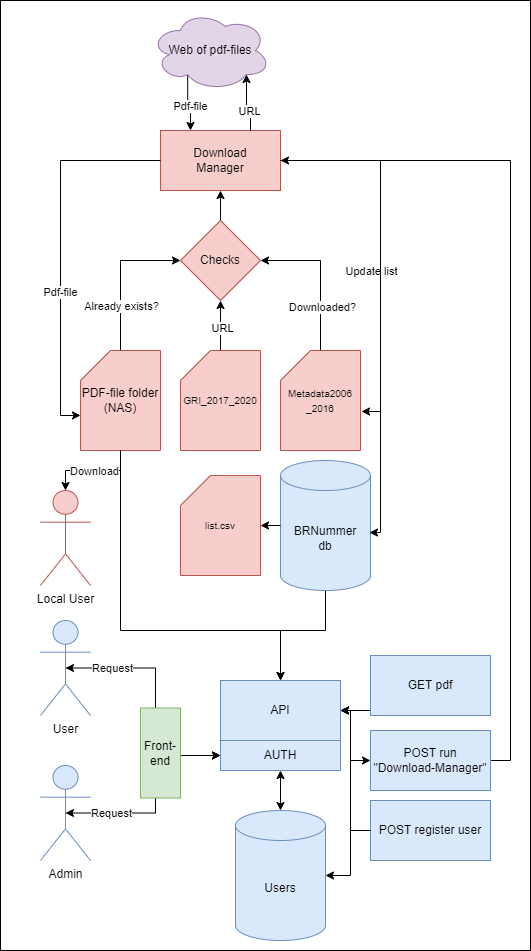
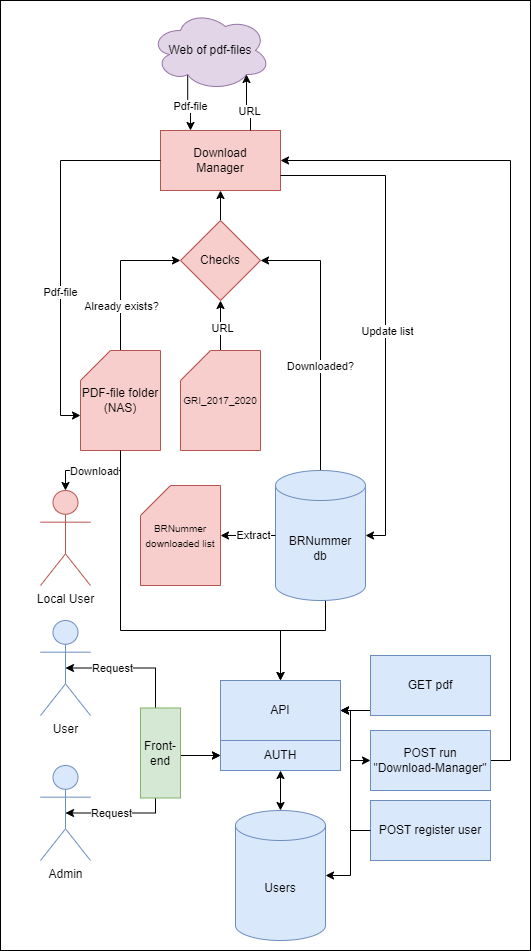
update specifications

diff --git a/README.md b/README.md
@@ -3,7 +3,8 @@
 ## Specificaftions
 This project will download specified PDF files from `GRI_2017_2020.xlsx` with URL from column AL: `Pdf_URL` or column AM: `Report Html Address`.
 Gives a list of the downloaded pdf files with naming of the column A: `BRNummer` and whether the file has been downloaded.
-Also `Metadata2006-2016.xlsx` at column AT: `pdf_downloaded` needs to update wether or not the file has been downloaded.
+Also we need a `downloaded list` with a column of download status: `pdf_downloaded` needs to update wether or not the file has been downloaded.
+This list will initially be updated in a database, and the list can later be extracted to a file if required.
 The program needs to handle future pdf downloading of new updated URL lists.
 The PDF-files needs to be accessable through the NAS or other ways.
 
